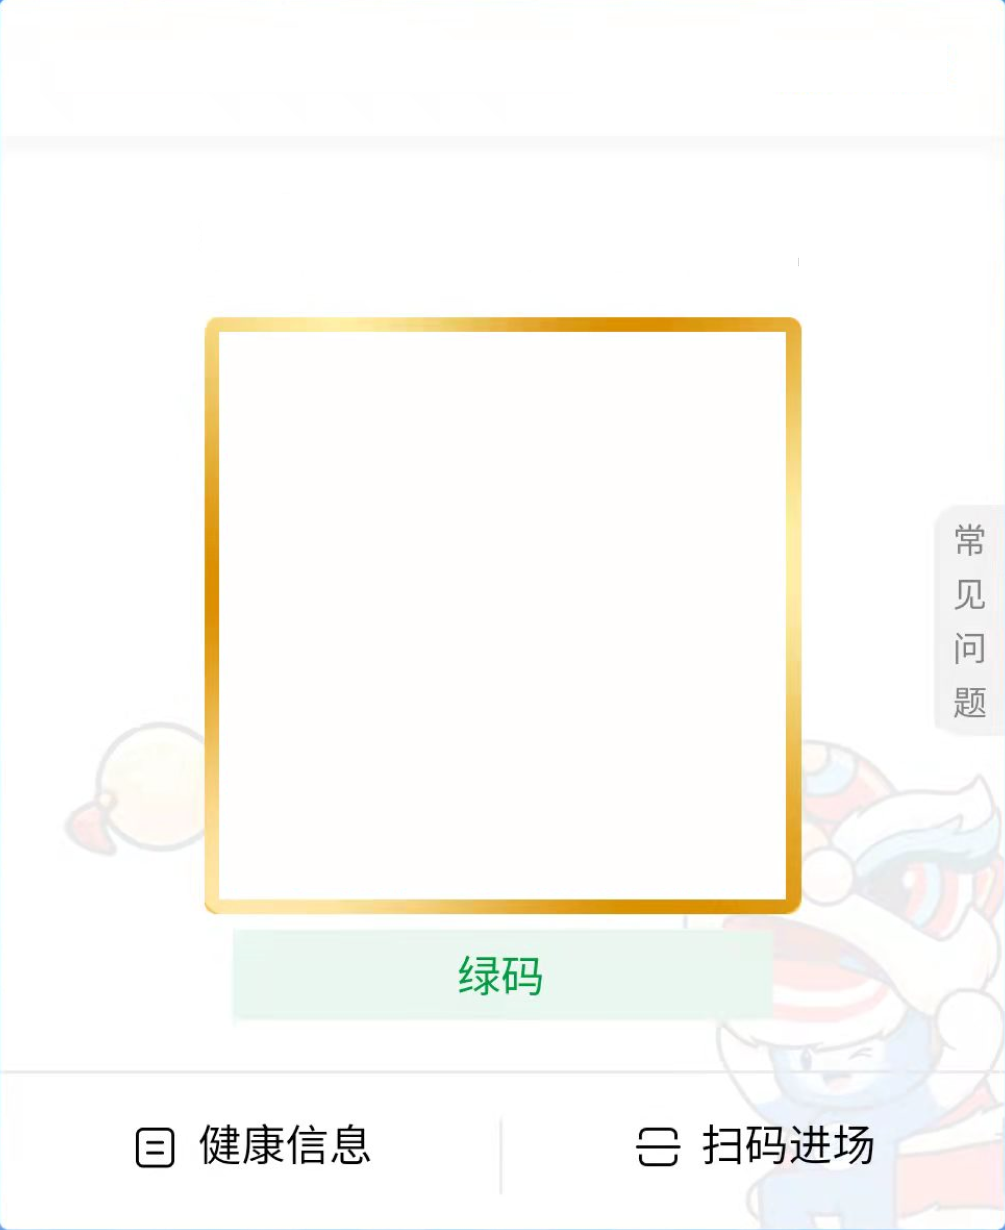
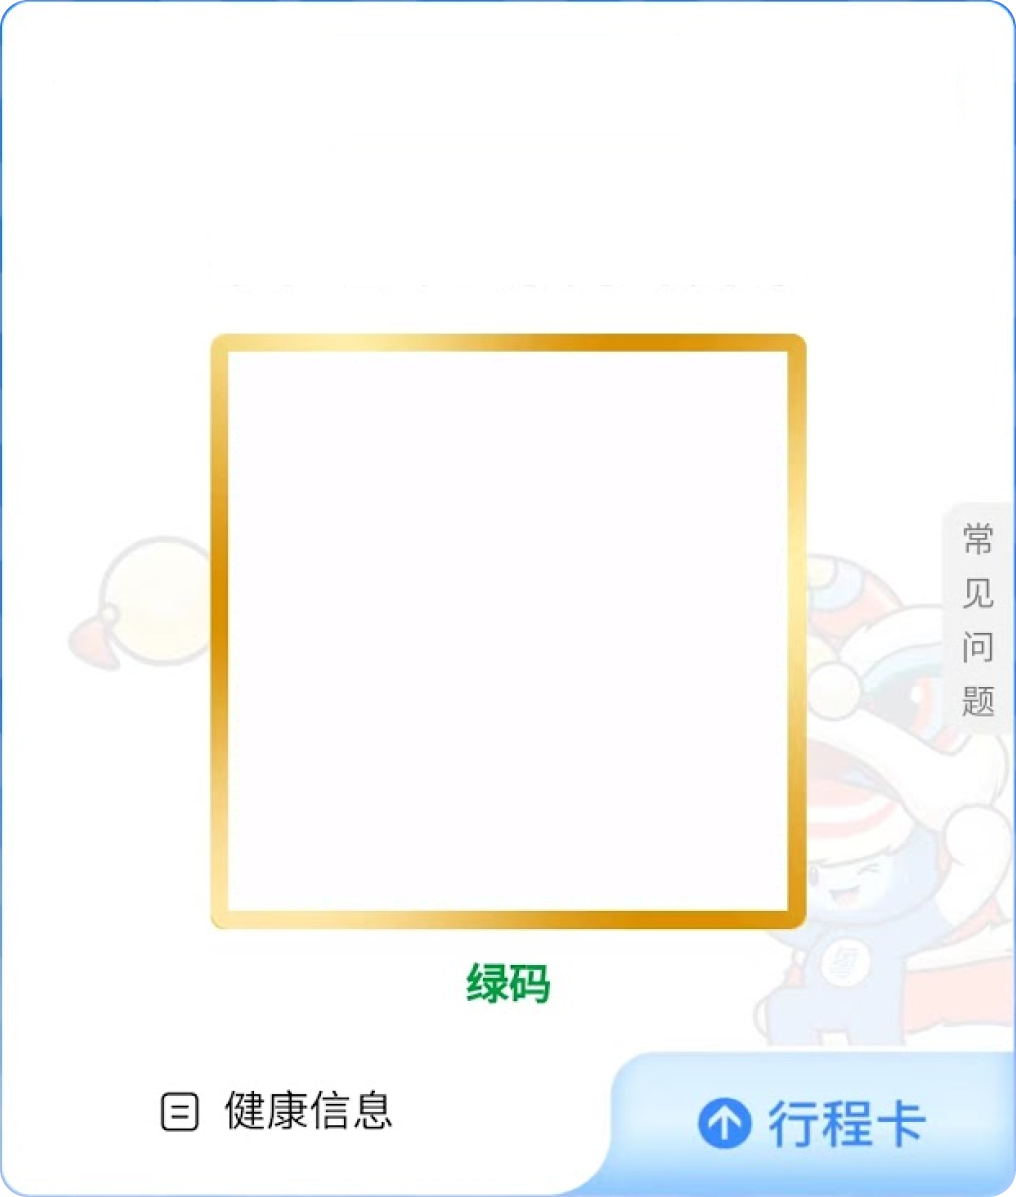
update: YKM's UI

diff --git a/components/YKMJumbotron/index.js b/components/YKMJumbotron/index.js
@@ -13,7 +13,8 @@ import {LeftArrow, DownArrow, Trumpet} from '../../assets/svg/index';
 import {timeFormatter, QRCODE_TEMPLATE} from '../../utils/public';
 import QRCode from 'react-native-qrcode-svg';
 import {Context} from '../../App';
-import TestResult from '../TestResult';
+// import TestResult from '../TestResult';
+import LinearGradient from 'react-native-linear-gradient';
 
 const nowTime = Date.now();
 
@@ -44,7 +45,11 @@ const YKMJumbotron = () => {
   }, []);
 
   return (
-    <View style={styles.backgroundContainer}>
+    <LinearGradient
+      colors={['#5791ED', '#ECF0FB']}
+      start={{x: 0, y: 0.55}}
+      end={{x: 0, y: 0.85}}
+      style={styles.backgroundContainer}>
       {/* 背景波纹 */}
       <Animated.View
         style={{
@@ -163,42 +168,45 @@ const YKMJumbotron = () => {
           </ImageBackground>
         </View>
         {/* 核酸检测 新冠疫苗 */}
-        <View style={styles.leftRightContainer}>
-          <View style={styles.sectionContent}>
-            <Image
-              source={require('../../assets/img/48_hours_negtive.png')}
-              style={{aspectRatio: 156 / 111, height: 109}}
-              resizeMode="cover"
-            />
-            <Text style={styles.testTime}>
-              {timeFormatter(nowTime - 36.192 * 3600000, 'yyyy-MM-dd HH:mm')}
-            </Text>
-            {/* <TestResult /> */}
-          </View>
-          <View style={styles.sectionContent}>
-            <Image
-              source={require('../../assets/img/vaccine_injected.png')}
-              style={{aspectRatio: 156 / 111, height: 109}}
-              resizeMode="cover"
-            />
+        <View style={styles.leftRightOuter}>
+          <View style={styles.leftRightContainer}>
+            <View style={styles.sectionContent}>
+              <Image
+                source={require('../../assets/img/48_hours_negtive.png')}
+                style={{aspectRatio: 156 / 111, height: 116}}
+                resizeMode="cover"
+              />
+              <Text style={styles.testTime}>
+                {timeFormatter(nowTime - 36.192 * 3600000, 'yyyy-MM-dd HH:mm')}
+              </Text>
+              {/* <TestResult /> */}
+            </View>
+            <View style={styles.sectionContent}>
+              <Image
+                source={require('../../assets/img/vaccine_injected.png')}
+                style={{aspectRatio: 156 / 111, height: 116}}
+                resizeMode="cover"
+              />
+            </View>
           </View>
         </View>
         {/* 底部说明 */}
-        <View style={styles.bottomContainer}>
+        {/* <View style={styles.bottomContainer}>
           <Text style={styles.instructionText}>依托全国一体化政务服务平台</Text>
           <Text style={styles.instructionText}>
             实现跨省（区、市）数据共享和互通互认
           </Text>
-        </View>
+        </View> */}
       </View>
-    </View>
+    </LinearGradient>
   );
 };
 
 const styles = StyleSheet.create({
   backgroundContainer: {
     position: 'relative',
-    backgroundColor: '#5791ED',
+    // backgroundColor: '#5791ED',
+    // backgroundColor: '#FFFFFF',
     marginTop: -96,
     paddingTop: 96,
     overflow: 'hidden',
@@ -208,7 +216,8 @@ const styles = StyleSheet.create({
     flexDirection: 'column',
     justifyContent: 'flex-start',
     alignItems: 'stretch',
-    paddingTop: 2,
+    paddingTop: 4,
+    // paddingBottom: 4,
     paddingHorizontal: 20,
   },
   headerContainer: {
@@ -217,7 +226,7 @@ const styles = StyleSheet.create({
     flexDirection: 'row',
     justifyContent: 'space-between',
     alignItems: 'center',
-    marginBottom: 30,
+    marginBottom: 20,
   },
   headerButton: {
     // position: 'relative',
@@ -231,14 +240,14 @@ const styles = StyleSheet.create({
   contentContainer: {
     borderRadius: 8,
     overflow: 'hidden',
-    marginBottom: 12,
+    marginBottom: 6,
   },
   contentSelection: {
     display: 'flex',
     flexDirection: 'row',
     justifyContent: 'space-between',
     alignItems: 'center',
-    height: 46,
+    height: 68,
     paddingHorizontal: 24,
   },
   selectionButton: {
@@ -258,30 +267,40 @@ const styles = StyleSheet.create({
     flexDirection: 'column',
     justifyContent: 'flex-start',
     alignItems: 'center',
-    padding: 12,
+    padding: 0,
   },
   realTime: {
-    fontSize: 32,
+    fontSize: 30,
     fontWeight: '500',
     paddingHorizontal: 24,
   },
   qrcode: {
-    marginTop: 18,
+    marginTop: 21,
+  },
+  leftRightOuter: {
+    backgroundColor: '#ffffff',
+    borderRadius: 8,
+    // marginBottom: 18,
+    padding: 2,
   },
   leftRightContainer: {
     display: 'flex',
     flexDirection: 'row',
     justifyContent: 'space-between',
     alignItems: 'center',
-    marginBottom: 18,
-    paddingHorizontal: 2,
+    backgroundColor: '#ffffff',
+    borderRadius: 6,
+    // marginBottom: 18,
+    // padding: 3,
+    overflow: 'hidden',
+    // paddingHorizontal: 2,
   },
   sectionContent: {
     // height: 116,
     // width: '48%',
-    padding: 3,
-    borderRadius: 4,
-    backgroundColor: '#ffffff',
+    // padding: 3,
+    // borderRadius: 4,
+    // backgroundColor: '#ffffff',
   },
   testTime: {
     position: 'absolute',
@@ -291,7 +310,7 @@ const styles = StyleSheet.create({
     textAlign: 'center',
     fontSize: 12,
     left: 3,
-    bottom: 16,
+    bottom: 12,
   },
   bottomContainer: {
     display: 'flex',

diff --git a/components/YKMExtraService/index.js b/components/YKMExtraService/index.js
@@ -15,7 +15,10 @@ const YKMExtraService = () => {
 
 const styles = StyleSheet.create({
   extraContainer: {
-    height: 1000,
+    backgroundColor: '#ECF0FB',
+    marginTop: 12,
+    paddingHorizontal: 20,
+    height: 280,
   },
 });
 
